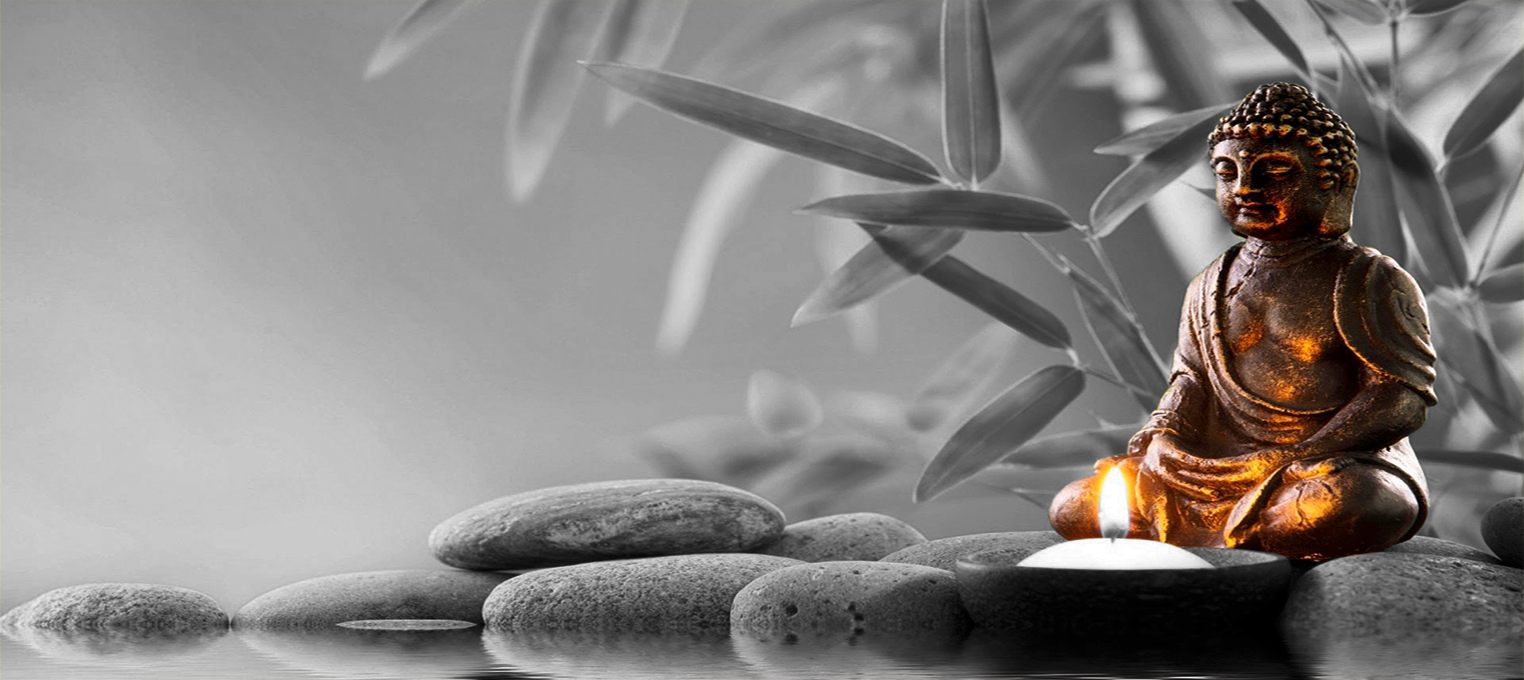
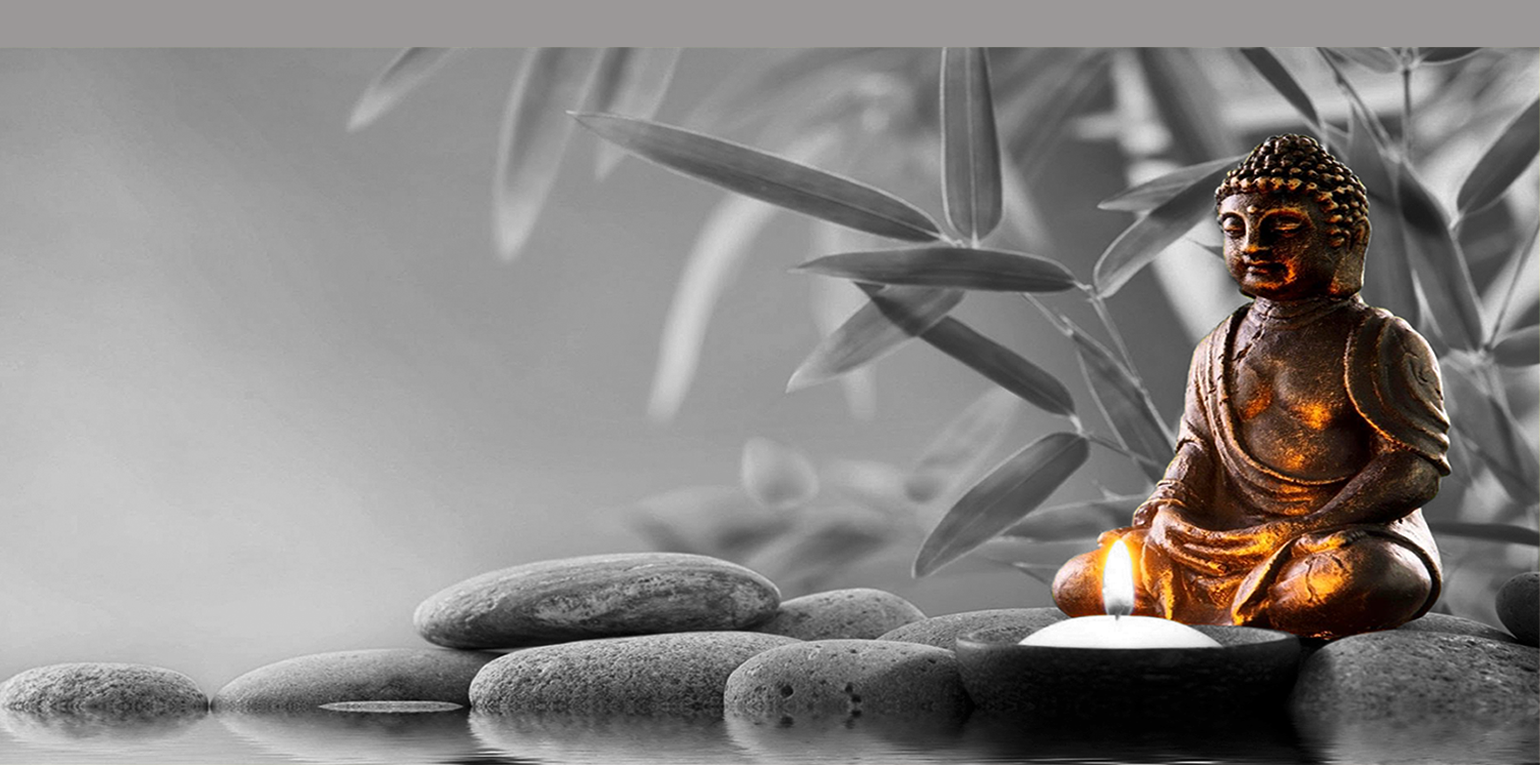
modifique header

diff --git a/prubea.html b/prubea.html
@@ -1,0 +1,100 @@
+<!DOCTYPE html>
+<html>
+<head>
+	  <meta charset="utf-8">
+    <meta http-equiv="X-UA-Compatible" content="IE=edge">
+    <meta name="viewport" content="width=device-width, initial-scale=1, maximum-scale=1, user-scalable=no">
+    <!-- The above 3 meta tags *must* come first in the head; any other head content must come *after* these tags -->
+    <title>Atmanjali Terapias</title>
+    <!-- tipografia de google fonts-->
+    
+    <link href="https://fonts.googleapis.com/css?family=Kaushan+Script" rel="stylesheet" type="text/css"> 
+
+    <!-- Latest compiled and minified CSS -->
+    <link rel="stylesheet" href="https://maxcdn.bootstrapcdn.com/bootstrap/3.3.7/css/bootstrap.min.css" integrity="sha384-BVYiiSIFeK1dGmJRAkycuHAHRg32OmUcww7on3RYdg4Va+PmSTsz/K68vbdEjh4u" crossorigin="anonymous">
+    <!-- este link es para los iconos-->
+    <link href="https://maxcdn.bootstrapcdn.com/font-awesome/4.7.0/css/font-awesome.min.css" rel="stylesheet" integrity="sha384-wvfXpqpZZVQGK6TAh5PVlGOfQNHSoD2xbE+QkPxCAFlNEevoEH3Sl0sibVcOQVnN" crossorigin="anonymous">  
+    <link rel="stylesheet" type="text/css" href="estilo.css">
+
+
+    <!-- HTML5 shim and Respond.js for IE8 support of HTML5 elements and media queries -->
+    <!-- WARNING: Respond.js doesn't work if you view the page via file:// -->
+    <!--[if lt IE 9]>
+      <script src="https://oss.maxcdn.com/html5shiv/3.7.3/html5shiv.min.js"></script>
+      <script src="https://oss.maxcdn.com/respond/1.4.2/respond.min.js"></script>
+    <![endif]-->
+</head>
+<body id="page-top" data-spy="scroll" data-target=".navbar-fixed-top">
+
+
+<section id="masajes">
+        <div class="container-fluid container-masajes">
+                <div class="row">
+                    <div class="col-lg-12 text-center-masajes">
+                        <h1 class="nombre">MASAJES</h1>
+                        <h3>Atmanjali Terapias</h3>
+                    </div>
+                </div>
+                <div class="imagenes-masajes">
+
+
+                    <article class="col-lg-12 col-md-6 col-sm-6 col-xs-12 sin-paddings">
+                        <div class="zoom-container">
+                            <span class="zoom-caption">
+                                <h2 class="nombre">Masaje Shiatsu Silla</h2>
+                                <img src="masajes/shiatsu-silla.jpg" class="img-responsive"> 
+                            </span>
+                            <div id="myModal" class="modal hide fade in" tabindex="-1" role="dialog" aria-labelledby="myModalLabel" aria-hidden="false" style="display:block;">
+                                <a href="">
+                                    <p class="descripcion-imagen">Descipción</p>
+                                    <div class="modal-header">
+                                        <h3 id="myModalLabel">SHIATSU</h3>
+                                    </div>
+                                    <div class="modal-body">
+                                    <p class="descripcion">Tratamiento Japonés que utiliza presión de dedos y as palmas de las manos sobre determinados puntos (meridianos de acupuntura) para re-equilibrar los sistemas energéticos del organismo, donde también corrige irregularidades, mantiene y mejora la salud, contribuye a aliviar diversas enfermedades y activa la capacidad de auto-curación , están íntimamente relacionada con la teoría y fundamentos de la Medicina Tradicional China.
+                                    TIEMPO ESTIMADO SESION: 60 MINUTOS APROXIMADAMENTE.</p>
+                                    </div>
+                                </a>
+                            </div>
+                        </div>
+                    </article>
+
+                </div>
+        </div>
+</section>
+
+
+
+
+
+
+
+
+
+
+
+
+
+
+
+
+
+
+
+
+
+
+
+
+
+
+
+
+
+
+<!-- jQuery (necessary for Bootstrap's JavaScript plugins) -->
+    <script src="https://ajax.googleapis.com/ajax/libs/jquery/1.12.4/jquery.min.js"></script>
+    <!-- Latest compiled and minified JavaScript -->
+    <script src="https://maxcdn.bootstrapcdn.com/bootstrap/3.3.7/js/bootstrap.min.js" integrity="sha384-Tc5IQib027qvyjSMfHjOMaLkfuWVxZxUPnCJA7l2mCWNIpG9mGCD8wGNIcPD7Txa" crossorigin="anonymous"></script>
+</body>
+</html>

diff --git a/index.html b/index.html
@@ -60,7 +60,7 @@
 <!-- Navbar end -->
 <header class="container">
   <div class="row">
-    <div class="col-lg-12">
+    <div class="col-xs-12 col-lg-12">
       <div class="text-intro">
         <h2 class="intro-header">Welcom To Atmanjali Terapias!</h2>
         <h4 class="intro-leal">It's Nice To Meet You</h4>
@@ -68,10 +68,38 @@
     </div>
   </div>
 </header>
+<!-- QUIENES SOMOS -->
 
-<!-- Quienes somos -->
+<section id="Quienes-somos" class="img-fondo">
+    <div class="container-fluid">
+      <div class="row">
+          <div class="col-xs-12 col-lg-12">
+            <h1 class="section-heading">QUIENES SOMOS</h1>
+            <h3 class="section-text">Atmanjali Terapias</h3>
+          </div>
+      </div>
+      <div class="row" >
+          <div class="col-md-6">
+            <span class="fa-stack fa-5x">
+              <i class="fa fa-skyatlas  fa-stack-1x fa-inverse"></i>
+            </span>
+            <h4 class="service-heading">Historia</h4>
+              <p class="text-muted">Nuestro Centro Atmanjali Terapias surge por tres terapeutas que tienen el sueño de crear un centro de terapias complementarias realizando técnicas y terapias no agresivas, ni invasivos y que equilibren a la persona física, mental, emocional y espiritualmente. Con ganas de entregar lo mejor de nosotros para restablecer a nuestros pacientes con dedicación, entusiasmo y amor.</p>
+          </div>
+               
+          <div class="col-md-6">
+              <span class="fa-stack fa-5x">
+                <i class="fa fa-street-view"></i>
+              </span>
+              <h4 class="service-heading">Misión</h4>
+                <p class="text-muted">Atmanjali Terapias, por medio de nuestro equipo de terapeutas con nuestros conocimientos tenemos las herramientas de mejorar la calidad de vida teniendo distintos tipos de servicios </p>
+        </div>
+    </div>
+  </div>
+</section>
+<!-- MASAJES -->
 
-<section id="masajes">
+<section id="quienes-somos">
         <div class="container-fluid">
             <div class="row">
               <div class="col-lg-12 text-center-masajes">

diff --git a/estilo.css b/estilo.css
@@ -65,7 +65,7 @@ nav.navbar-fixed-top{
 .navbar-default .navbar-nav .active a{
 	color: #f57c0d;
 	border-radius: 10px;
-	background-color: #009688;
+	background-color: white;
 }
 /* para activar por si no resulta el active 
 .navbar-default .navbar-nav .active a:focus {
@@ -102,7 +102,7 @@ header.container{
     margin-bottom:0;
     background-attachment: fixed;
 	width: 100%;
-	height: 750px;
+	height: 800px;
 	background-image: url("imagen/maxresdefault.png");
 
 }
@@ -130,8 +130,31 @@ header:hover{
 .intro-leal{
 	text-align: left;
 	font-size: 20px;
-	margin-left: 220px;
+	margin-left: 200px;
 	color: #626363;
 }
 
+/* --- QUIENES SOMOS --- */
+
+h1.section-heading{
+	font-family: 'kaushan Script';
+    font-weight: 400;
+    font-style: normal;
+    font-size: 25px;
+	color: #333;
+	padding-top: 50px;
+	text-align: center; 
+
+}
+
+h3.section-text{
+	font-family: 'kaushan Script';
+    font-weight: 400;
+    font-style: normal;
+    font-size: 15px;
+    color: darkgrey;
+    text-align: center; 
+}
+
+section#quienes-somos{}
 
